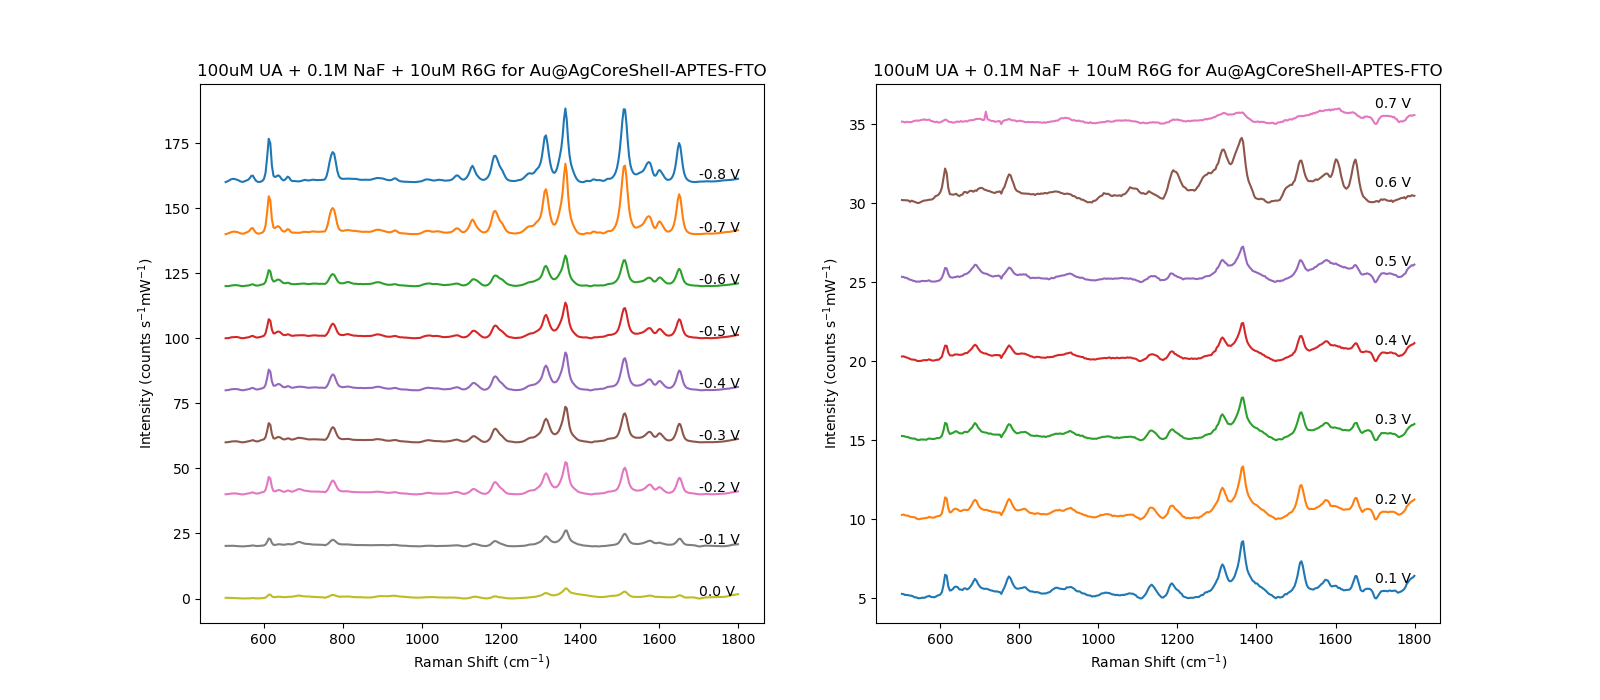
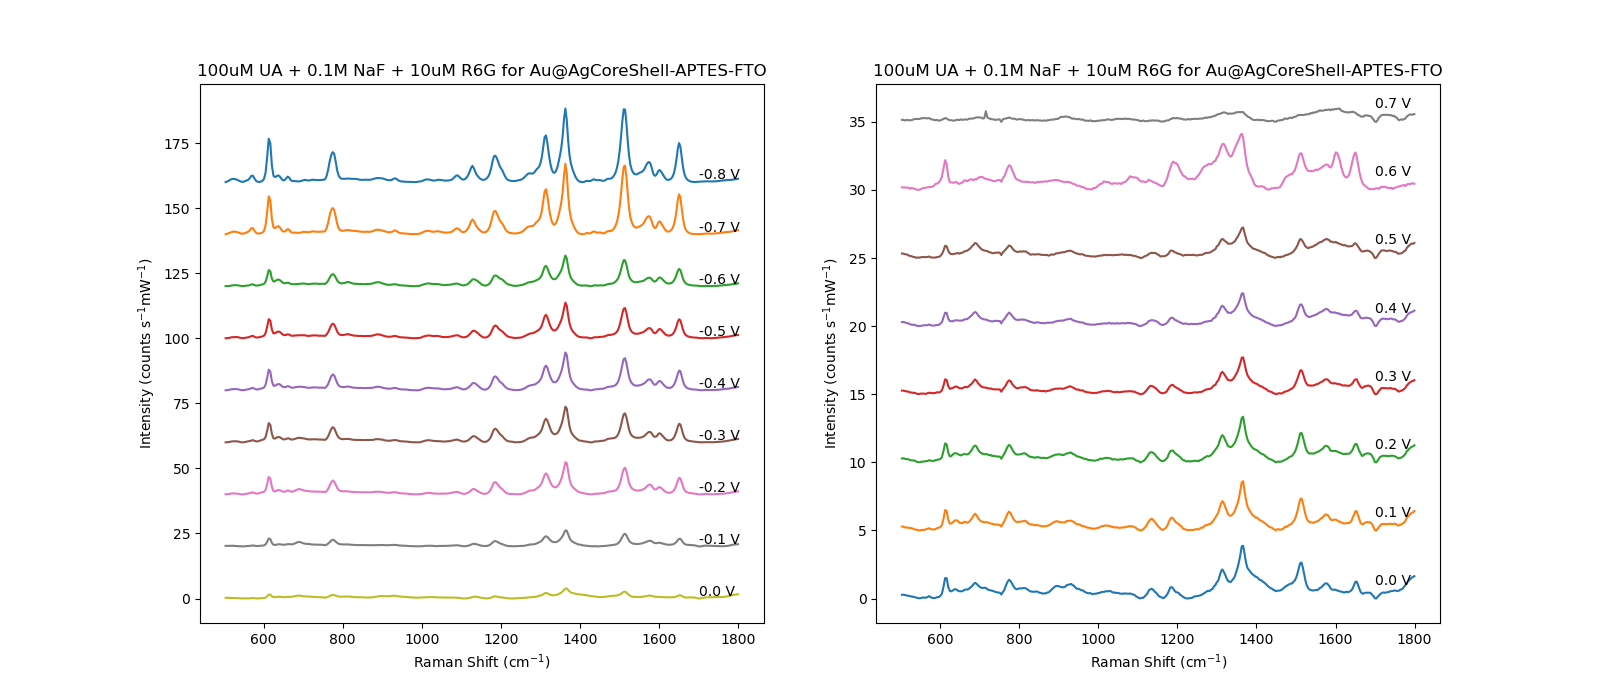
Add new data processing

diff --git a/Au@AgCoreShell_UA_Jun29.py b/Au@AgCoreShell_UA_Jun29.py
@@ -21,10 +21,9 @@ for i, col in df_plot.iloc[:, :9].iteritems():
     ax1.plot(col+200*abs(i))
     ax1.annotate(str(i) + ' V', (1700, 1+200*abs(i)))
 
-for i, col in df_plot.iloc[:, 9:].iteritems():
+for i, col in df_plot.iloc[:, 8:].iteritems():
     ax2.plot(col+50*abs(i))
     ax2.annotate(str(i) + ' V', (1700, 1+50*abs(i)))
-
 
 plt.savefig('fig_gallery/Au@AgCoreShell_UA_Jun29_1.png')
 plt.show()
